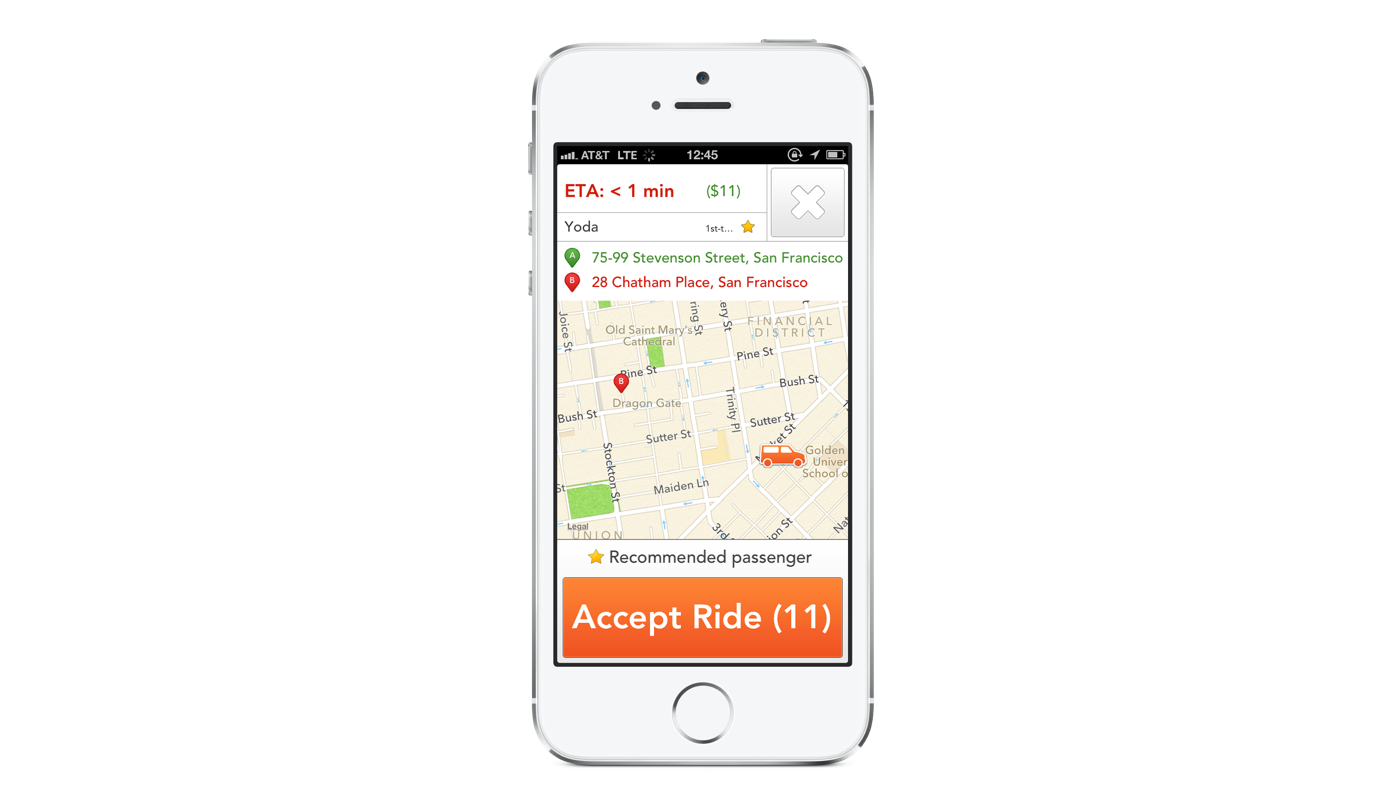
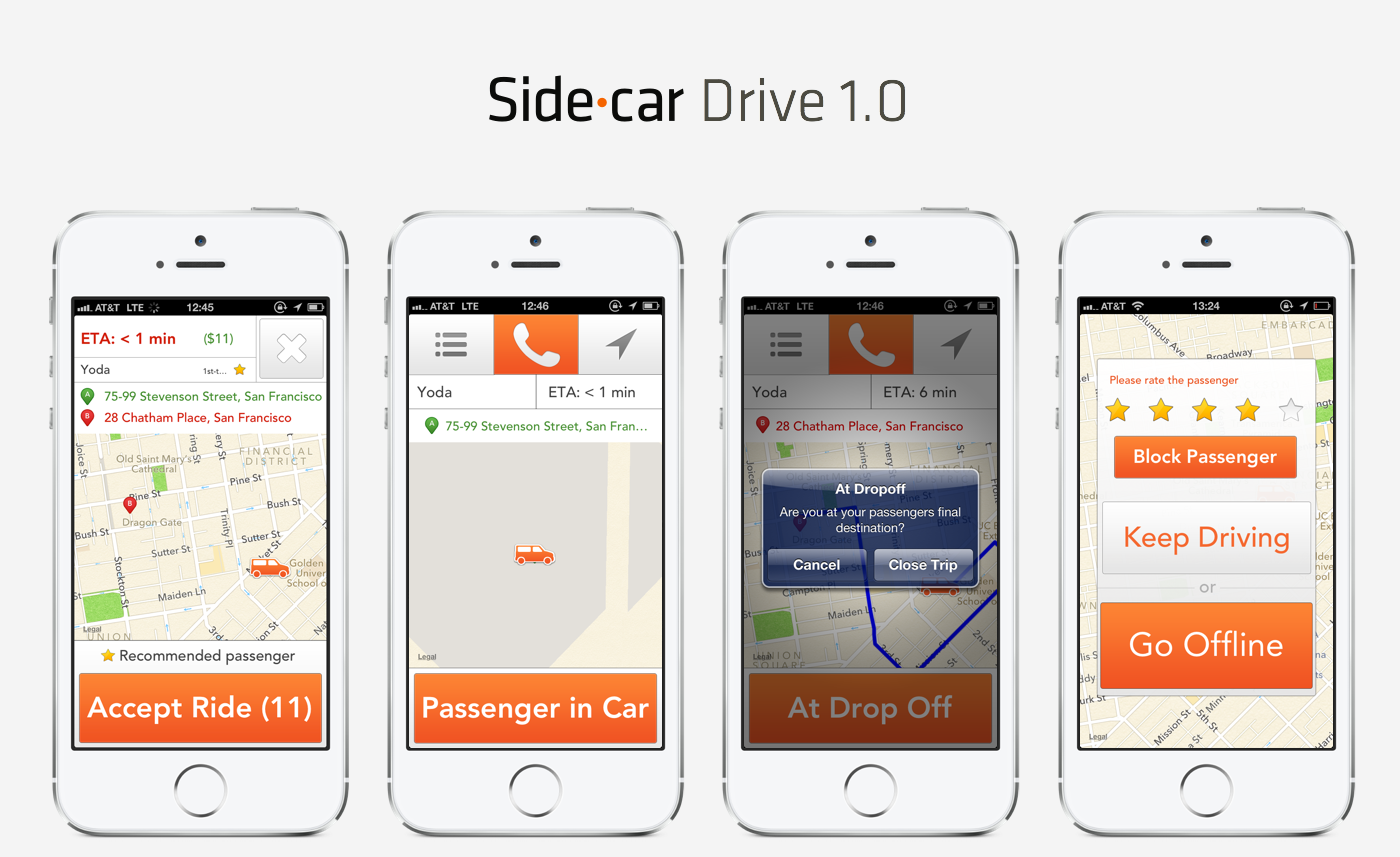
new styling and more driver app content

diff --git a/design/sidecar/drive/index.html b/design/sidecar/drive/index.html
@@ -6,24 +6,75 @@ title: Design
 
 <div class="section_header">
   <p>The driver app, in my opinion, is one of the coolest pieces of software that we at Sidecar have produced. In the background, the amount of optimization the team has done to efficiently match people and packages paired with the
-  robust mobile apps makes it the mobile product I'm the most proud of designing.</p>
-  <br>
+  robust mobile apps makes it the mobile product I'm the most proud of working on.</p>
   <p>That being said, it hasn't always been the best product out there. Below, I'll try to give you a glimpse how this ugly duckling became a foundational element to the Sidecar story.</p>
 </div>
 
-<img class="full" src="scd_old.png">
 
-<p class="img_caption">The original Sidecar Drive app. Circa 2013.</p>
+<img data-action="zoom" class="full" src="scd_old.png">
+<p class="img_caption">The original Sidecar Drive app. Circa 2013. Not my best showing.</p>
 
-<p>Not pretty, right? I agree. While this first version, that I designed on a single piece of looseleaf paper, worked for about two years – it was a nightmare to work on.
-Any new feature would immediately break the design paradigm or lack thereof.</p>
-<p>As our business grew and evolved, we were limited by this app and it's rigid structure of crap. It needed to be rebuilt from the ground up.</p>
+<h1>I. The Problem</h1>
+<p>Not pretty, right? Sidecar Drive 1.0, designed on a single piece of looseleaf paper, worked surprisingly well for about two years but was a disaster waiting to happen.
+Any new feature would immediately break the design paradigm or lack thereof. Thankfully, my process had grew from nothing to something so I was ready to revisit my old friend: Sidecar Drive.</p>
 
-<h1>Step One: Discovery</h1>
-<p>Nullam quis risus eget urna mollis ornare vel eu leo. Vestibulum id ligula porta felis euismod semper.</p>
-<p>Cum sociis natoque penatibus et magnis dis parturient montes, nascetur ridiculus mus. Nullam quis risus eget urna mollis ornare vel eu leo. Donec id elit non mi porta gravida at eget metus.</p>
+<p>As our business grew and evolved, we were limited by this app and it's rigid structure of crap. It needed to be rebuilt from the ground up. We needed a Driver app that:</p>
+
+<ul>
+  <li>Unify the experience for solo and shared rides</li>
+  <li>Improve the usability of the Driver app</li>
+  <li>Build a flexible, yet solid, foundation for future features</li>
+</ul>
+
+<p>With the groundwork laid out, it was time to set a timeline, figure out concrete deliverables, and start unpacking this design problem.</p>
+
+<h1>II. The Process</h1>
+<p>One of the good parts about 1.0 being out in the open for so long was that we had a good feedback from our Drivers on what was working and what wasn't.</p>
+<h2>Things that worked well:</h2>
+<ul>
+  <li>The main flow was simple to progress through (just tap the big, fat orange button to move forward)</li>
+  <li>We gave drivers a lot of information on the ride (price, ETA, pickup & dropoff, etc.)</li>
+  <li>The overall flow didn't change from ride to ride so muscle memory was easy to build</li>
+</ul>
+
+<h2>Things that worked not so well:</h2>
+<ul>
+  <li>Drivers felt rushed for time when accepting a request</li>
+  <li>We knew the experience was going to start getting more complex, so we needed to minimize that impact</li>
+  <li>There were ways that Drivers could game the system which had larger impacts downstream</li>
+</ul>
+
+<p>After interviewing drivers, gathering historical data on usage, and landing on goals and priorities I grabbed a bunch of paper, a few markers, and started
+listening to Ratatat's LP4. It was game time.</p>
+
+<img class="full" src="scd_ride_request.png">
+
+<p>The request screen is what a Driver uses to accept or decline a ride or delivery trip. With a lot of information (price, ETA, multiple waypoints) and only 12 seconds
+to make a decision, Drivers were feeling rushed and said they would love to have more time to accept. While we could've added more time that would impact Riders
+and the system as a whole so I tried to see if we could solve the issue in another way.</p>
+
+<p>Hierarchy of information is fundamental to a good experience and to apply that to the request screen, I had to figure out what information was most important to Drivers. After
+a few interviews the information fell into this order:
+<ol>
+  <li>ETA to Pickup</li>
+  <li>Price</li>
+  <li>Rating</li>
+</ol>
+
+<p>This insight was key in laying out the screen and has helped Drivers parse information without feeling rushed. In addition to laying out information in a more
+presentable way, I wanted to see if there were other ways we could bend time and help Drivers not feel rushed. I knew designers have used visual tricks to make progress bars
+look faster than they are so I figured we could do the opposite and make it appear slower.</p>
+
+<img class="full" src="scd_request_timer.png">
+<p class="img_caption">Top: Normal. Middle: "Sped up". Bottom: "Slowed down"</p>
+<!--
+<p>Since Driver's spend so much of their time driving and using navigation apps – it felt important to me to study those apps and understand the
+underlying principles and interaction paradigms they used. Some of the most common apps our driver used were Waze, Google Maps, and Apple maps. It was
+interesting to see how each app had it's own approach to destination entry, turn-by-turn, and trip itineraries. Waze did a good job handling automatic actions (allowing
+the driver to keep their hands on the wheel). Apple Maps has a very nice turn-by-turn implementation but is a bit fidgety and doesn't elegantly handle map panning. </p>
+
 <img class="full" src="map_apps.png">
-<p>Curabitur blandit tempus porttitor. Duis mollis, est non commodo luctus, nisi erat porttitor ligula, eget lacinia odio sem nec elit.</p>
+-->
 
-<h1>Step Two: The Process</h1>
+
 <h1>Step Three: The Profit</h1>

diff --git a/design/sidecar/unhappy/index.html b/design/sidecar/unhappy/index.html
@@ -5,12 +5,21 @@ title: Design
 
 <img class="full" src="scd_unhappy-support.png">
 <p class="img_caption">Awesome illustration by the talented <a href="#">Grecia Garcia</a></p>
+
 <div class="section_header">
-  <p>To provide a flexible and reliable Deliveries solution for our partners we needed to help driver's troubleshoot issues that met the needs of our partners. This
-  led to a flow that could be modular and defined by our partners.</p>
+  <p>In a perfect world nothing would be wrong and everything would be made out of chocolate. Unfortunately, that's not the world we live in. As a designer, it's important to understand that and craft the best experience in a subpar situation.
+     For our drivers, that meant building a troubleshooting system that helps them figure out any issues they might run into when delivering orders for our Sidecar Deliveries partners.</p>
 </div>
 
+<h1>The Problem</h1>
+<p>With the introduction of our Deliveries API, we To provide a flexible and reliable Deliveries solution for our partners we needed to help driver's troubleshoot issues that met the needs of our partners. This
+  led to a flow that could be modular and defined by our partners.</p>
+
+  <h1>The Process</h1>
+
+  <h1>The Solution</h1>
 <img class="full" src="scd_unhappy-flow.png">
+
 
 <p class="img_caption">The majority of the content on the third and fourth screens are completely generated on the fly.</p>
 

diff --git a/css/style.css b/css/style.css
@@ -5,7 +5,7 @@ html, body {
   width: 100%;
 }
 
-body, h1, h2, h3, h4, h5, h6, dl, ol, ul, p,
+body, dl, ol, ul, 
 button, input, select, textarea {
   margin: 0;
 }
@@ -118,6 +118,7 @@ img.split.right {
 
 .img_caption {
   margin-top:-15px;
+  margin-bottom: 20px; 
   font-size: 14px;
   font-weight: 100;
   color: #aaa;
@@ -144,12 +145,17 @@ a {
 }
 
 h1 {
-  font-size: 20px;
-  font-weight: 500;
-  color: #333;
+  font-size: 24px;
+  font-weight: 400;
+  line-height: 32px;
+  color: #03a9f4;
 }
 
 h2 {
+  font-size: 18px;
+  font-weight: 400;
+  line-height: 24px;
+  color: #424242; 
 }
 
 h3 {
@@ -158,16 +164,16 @@ h3 {
 h4 {
 }
 
-p {
+p, ul {
   font-size: 16px;
-  color: #444;
-  margin: 0 auto 20px auto;
+  line-height: 24px; 
+  color: #757575;
 }
 
 /* POSTS */
 
 .section_header {
-  padding: 10px 10px 10px 20px;
+  padding: 0px 10px 0px 20px;
   margin-bottom: 20px;
   font-size: 18px;
   border-left: 10px solid #ccc;
@@ -256,8 +262,8 @@ div.colophon {
 @-webkit-keyframes fadeInUp {
   0% {
     opacity: 0;
-    -webkit-transform: translate3d(0, 10%, 0);
-            transform: translate3d(0, 10%, 0);
+    -webkit-transform: translate3d(0, 50px, 0);
+            transform: translate3d(0, 50px, 0);
   }
 
   100% {

diff --git a/_includes/head.html b/_includes/head.html
@@ -9,11 +9,11 @@
   <link href='http://fonts.googleapis.com/css?family=PT+Mono' rel='stylesheet' type='text/css'>
   <link href='http://fonts.googleapis.com/css?family=Roboto:400,500,300' rel='stylesheet' type='text/css'>
   <link rel="stylesheet" href="{{ "/css/style.css" | prepend: site.baseurl }}">
-  <link rel="stylesheet" href="/css/zoom.css">
+  <link rel="stylesheet" type="text/css" href="/css/zoom.css">
   <link rel="canonical" href="{{ page.url | replace:'index.html','' | prepend: site.baseurl | prepend: site.url }}">
   <link rel="alternate" type="application/rss+xml" title="{{ site.title }}" href="{{ "/feed.xml" | prepend: site.baseurl | prepend: site.url }}" />
   <script src="https://ajax.googleapis.com/ajax/libs/jquery/1.11.2/jquery.min.js"></script>
   <script src="/js/main.js"></script>
-  <script src="http://netdna.bootstrapcdn.com/bootstrap/3.0.0/js/bootstrap.min.js"></script>
+  <script src="/js/transition.js"></script> 
   <script src="/js/zoom.js"></script>
   </head>

diff --git a/design/design.html b/design/design.html
@@ -7,7 +7,7 @@ permalink: /design/
 <p>As a Product Designer, my role oscillates between graphic design, user research, and interaction design. Through a combination of the aforementioned facets along with personal approaches, I aim to craft experiences that are delightfully helpful.</p>
 </div>
 
-<a href="/design/sidecar"><img class="full" src="sidecar/sc_splash.png"></a>
+<a href="/design/sidecar"><img class="full" src="sidecar/sc_splash1.png"></a>
 <a href="/design/noted"><img class="full" src="noted/noted.png"></a>
 <a class="post_link" href="/design/summer_sale"><img class="full" src="summer_sale/sizzlin.png"></a>
 <a href="/design/comiccar"><img class="split" src="comiccar/comiccar.png"></a>

diff --git a/design/sidecar/index.html b/design/sidecar/index.html
@@ -5,7 +5,6 @@ title: Design
 <div class="section_header">
   <p>In summer of 2013 I joined Sidecar as their first designer. With a product that had barely launched, and a brand that was just finding it's stride my role had included planning roadmaps, designing products, and strengthening the brand.
   Below you will find case studies of a few of my favorite projects at Sidecar.</p>
-  <br>
   <p>Before diving in, I want to highlight that none of this would be possible without the support, help, and feedback from the rest of the Sidecar team and community.</p>
 </div>
 

diff --git a/_includes/footer.html b/_includes/footer.html
@@ -15,3 +15,4 @@
     <li><a href="https://instagram.com/mahanti" target="_blank"><img src="/img/icon_instagram.svG"></a></li>
   </ul>
 </div>
+</div>

diff --git a/_includes/header.html b/_includes/header.html
@@ -10,3 +10,4 @@
       </ul>
     </nav>
   </header>
+  <div class="animated fadeInUp">
